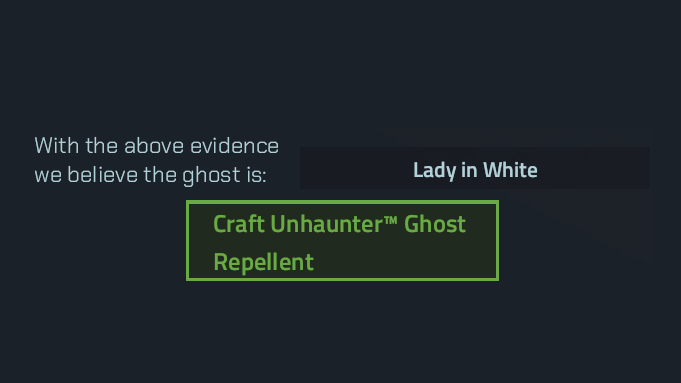
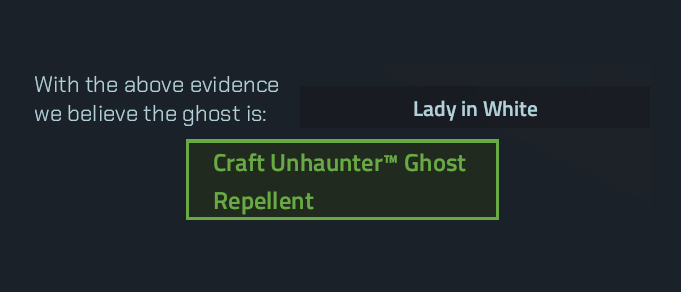
refactor manual

Changed region(s): [[0.0308, 0.2466, 0.8018, 0.6164], [0.2775, 0.6781, 0.7401, 0.7705]]

diff --git a/src/manual/utils.rs b/src/manual/utils.rs
@@ -15,6 +15,7 @@ pub fn image_text(
                 justify_content: JustifyContent::FlexStart,
                 align_items: AlignItems::Center,
                 flex_direction: FlexDirection::Column,
+                flex_grow: 0.2,
                 ..default()
             },
             ..default()
@@ -22,10 +23,11 @@ pub fn image_text(
         .with_children(|parent| {
             parent.spawn(ImageBundle {
                 style: Style {
-                    max_width: Val::Percent(90.0),
-                    max_height: Val::Percent(80.0),
-                    margin: UiRect::all(Val::Px(2.0)),
+                    width: Val::Percent(100.0),
+                    // max_height: Val::Percent(90.0),
+                    margin: UiRect::bottom(Val::Px(2.0)),
                     aspect_ratio: Some(16.0 / 9.0),
+                    flex_grow: 0.5,
                     ..default()
                 },
                 image: image.clone().into(),
@@ -54,13 +56,17 @@ pub fn grid_img_text(
             style: Style {
                 // Occupy full width
                 width: Val::Percent(100.0),
-                height: Val::Percent(70.0),
                 display: Display::Grid,
-                grid_template_columns: RepeatedGridTrack::flex(colxrow.0, 1.0),
-                grid_template_rows: RepeatedGridTrack::percent(colxrow.1, 60.0),
-                column_gap: Val::Percent(4.0),
-                row_gap: Val::Percent(4.0),
-                padding: UiRect::all(Val::Percent(2.0)),
+                grid_template_columns: RepeatedGridTrack::percent(
+                    colxrow.0,
+                    99.0 / colxrow.0 as f32,
+                ),
+                grid_template_rows: RepeatedGridTrack::flex(colxrow.1, 1.0),
+                column_gap: Val::Percent(0.5),
+                row_gap: Val::Percent(0.5),
+                padding: UiRect::all(Val::Percent(0.5)),
+                flex_grow: 1.0,
+                flex_basis: Val::Percent(90.0),
                 ..default()
             },
             ..default()
@@ -68,6 +74,80 @@ pub fn grid_img_text(
         .with_children(|parent| {
             for (img, text) in contents {
                 image_text(parent, img, font, text);
+            }
+        });
+}
+
+pub fn grid_img_text2(
+    parent: &mut ChildBuilder<'_>,
+    font: &Handle<Font>,
+    colxrow: (u16, u16),
+    contents: Vec<(&Handle<Image>, impl Into<String>)>,
+) {
+    let mut rows = vec![];
+
+    for _ in 0..colxrow.1 {
+        rows.push(GridTrack::flex(1.0));
+        rows.push(GridTrack::flex(0.3));
+    }
+
+    parent
+        .spawn(NodeBundle {
+            style: Style {
+                width: Val::Percent(96.0),
+                display: Display::Grid,
+                grid_template_columns: RepeatedGridTrack::percent(
+                    colxrow.0,
+                    99.0 / colxrow.0 as f32,
+                ),
+                grid_template_rows: rows,
+                column_gap: Val::Percent(0.5),
+                row_gap: Val::Percent(0.2),
+                padding: UiRect::all(Val::Percent(0.2)),
+                overflow: Overflow::clip(),
+                flex_grow: 1.0,
+                flex_basis: Val::Percent(90.0),
+                ..default()
+            },
+            ..default()
+        })
+        .with_children(|parent| {
+            let contents: Vec<(&Handle<Image>, String)> =
+                contents.into_iter().map(|(a, b)| (a, b.into())).collect();
+            let rows = colxrow.1;
+            let cols = colxrow.0;
+            for row in 0..rows {
+                for (img, _text) in &contents[(row * cols) as usize..(row * cols + cols) as usize] {
+                    parent.spawn(ImageBundle {
+                        style: Style {
+                            // max_width: Val::Percent(100.0),
+                            max_height: Val::Percent(100.0),
+                            margin: UiRect::bottom(Val::Px(2.0)),
+                            aspect_ratio: Some(21.0 / 9.0),
+                            flex_grow: 1.0,
+                            ..default()
+                        },
+                        image: (*img).clone().into(),
+                        ..default()
+                    });
+                }
+                for (_img, text) in &contents[(row * cols) as usize..(row * cols + cols) as usize] {
+                    parent.spawn(
+                        TextBundle::from_section(
+                            text,
+                            TextStyle {
+                                font: font.clone(),
+                                font_size: 16.0 * UI_SCALE,
+                                color: Color::WHITE,
+                            },
+                        )
+                        .with_style(Style {
+                            flex_grow: 0.1,
+                            margin: UiRect::all(Val::Px(4.0)),
+                            ..Default::default()
+                        }),
+                    );
+                }
             }
         });
 }
@@ -83,7 +163,6 @@ pub fn header(
             style: Style {
                 // Occupy full width
                 width: Val::Percent(100.0),
-                height: Val::Percent(10.0),
                 justify_content: JustifyContent::Center,
                 align_items: AlignItems::Center,
                 flex_direction: FlexDirection::Column,
@@ -97,7 +176,7 @@ pub fn header(
                 title,
                 TextStyle {
                     font: handles.fonts.londrina.w300_light.clone(),
-                    font_size: 48.0 * UI_SCALE,
+                    font_size: 32.0 * UI_SCALE,
                     color: Color::WHITE,
                 },
             ));
@@ -107,7 +186,53 @@ pub fn header(
                 subtitle,
                 TextStyle {
                     font: handles.fonts.chakra.w400_regular.clone(),
-                    font_size: 24.0 * UI_SCALE,
+                    font_size: 18.0 * UI_SCALE,
+                    color: Color::WHITE,
+                },
+            ));
+        });
+    parent.spawn(NodeBundle {
+        style: Style {
+            flex_grow: 0.2,
+            flex_basis: Val::Px(10.0),
+            ..default()
+        },
+        ..default()
+    });
+}
+
+pub fn summary_text(parent: &mut ChildBuilder, handles: &GameAssets, summary: impl Into<String>) {
+    parent.spawn(NodeBundle {
+        style: Style {
+            flex_grow: 0.2,
+            flex_basis: Val::Px(0.0),
+            ..default()
+        },
+        ..default()
+    });
+
+    parent
+        .spawn(NodeBundle {
+            style: Style {
+                // Occupy full width
+                width: Val::Percent(100.0),
+                justify_content: JustifyContent::Center,
+                align_items: AlignItems::Center,
+                flex_direction: FlexDirection::Column,
+                margin: UiRect::all(Val::Percent(0.5)),
+                flex_grow: 0.0,
+                flex_basis: Val::Percent(1.0),
+                ..default()
+            },
+            ..default()
+        })
+        .with_children(|parent| {
+            // Summary Text
+            parent.spawn(TextBundle::from_section(
+                summary,
+                TextStyle {
+                    font: handles.fonts.chakra.w400_regular.clone(),
+                    font_size: 18.0 * UI_SCALE,
                     color: Color::WHITE,
                 },
             ));

diff --git a/src/manual/chapter1/p01_mission_briefing.rs b/src/manual/chapter1/p01_mission_briefing.rs
@@ -1,4 +1,4 @@
-use crate::manual::utils::{grid_img_text, header};
+use crate::manual::utils::{grid_img_text2, header, summary_text};
 
 use crate::root::GameAssets;
 use bevy::prelude::*;
@@ -12,7 +12,7 @@ What will you find? How to do a good job as a P.I.? Here are the main clues!
     let grid = vec![
         (
             &handles.images.manual_investigate,
-            "1. Explore the location and use your equipment (EMF, etc) to detect paranormal activity."
+            "1. Explore the location and use your equipment (Thermometer, etc) to detect paranormal activity."
         ),
         (
             &handles.images.manual_locate_ghost,
@@ -20,7 +20,7 @@ What will you find? How to do a good job as a P.I.? Here are the main clues!
         ),
         (
             &handles.images.manual_identify_ghost,
-            "3. Record your findings in the truck journal page to identify the ghost type.",
+            "3. Different ghosts leave different evidence. Recording your findings in the truck journal page helps you identify the ghost type.",
         ),
         (
             &handles.images.manual_craft_repellent,
@@ -35,8 +35,11 @@ What will you find? How to do a good job as a P.I.? Here are the main clues!
             "6. Return to the truck and click 'End Mission' to complete the investigation and receive your score.",
         ),
     ];
+    let summary = "Your goal is to identify and banish the ghost. By exploring, locating the breach, gathering evidence, and using the truck's equipment, you'll craft the right tool for the job. More details on each step are provided in the following pages.";
 
     header(parent, handles, title, subtitle);
 
-    grid_img_text(parent, &handles.fonts.chakra.w400_regular, (3, 2), grid);
+    grid_img_text2(parent, &handles.fonts.chakra.w400_regular, (3, 2), grid);
+
+    summary_text(parent, handles, summary);
 }

diff --git a/src/manual/index.rs b/src/manual/index.rs
@@ -40,7 +40,7 @@ pub fn draw_manual_ui(
                 height: Val::Percent(100.0),
                 justify_content: JustifyContent::Center,
                 flex_direction: FlexDirection::Column,
-                padding: UiRect::all(Val::Px(10.0)),
+                padding: UiRect::all(Val::Px(2.0)),
                 ..default()
             },
             ..default()
@@ -52,10 +52,11 @@ pub fn draw_manual_ui(
                 .spawn(NodeBundle {
                     style: Style {
                         width: Val::Percent(100.0),
-                        height: Val::Percent(90.0),
                         justify_content: JustifyContent::Center,
                         align_items: AlignItems::Center,
                         flex_direction: FlexDirection::Column,
+                        flex_grow: 1.0,
+                        flex_basis: Val::Percent(100.0),
                         ..default()
                     },
                     ..default()
@@ -70,11 +71,13 @@ pub fn draw_manual_ui(
                 .spawn(NodeBundle {
                     style: Style {
                         width: Val::Percent(90.0),
-                        height: Val::Percent(10.0),
+                        height: Val::Percent(5.0),
                         flex_direction: FlexDirection::Row,
                         justify_content: JustifyContent::SpaceBetween,
                         align_items: AlignItems::Center,
                         margin: UiRect::top(Val::Percent(3.0)),
+                        flex_grow: 0.0,
+                        flex_basis: Val::Percent(5.0),
                         ..default()
                     },
                     ..default()
